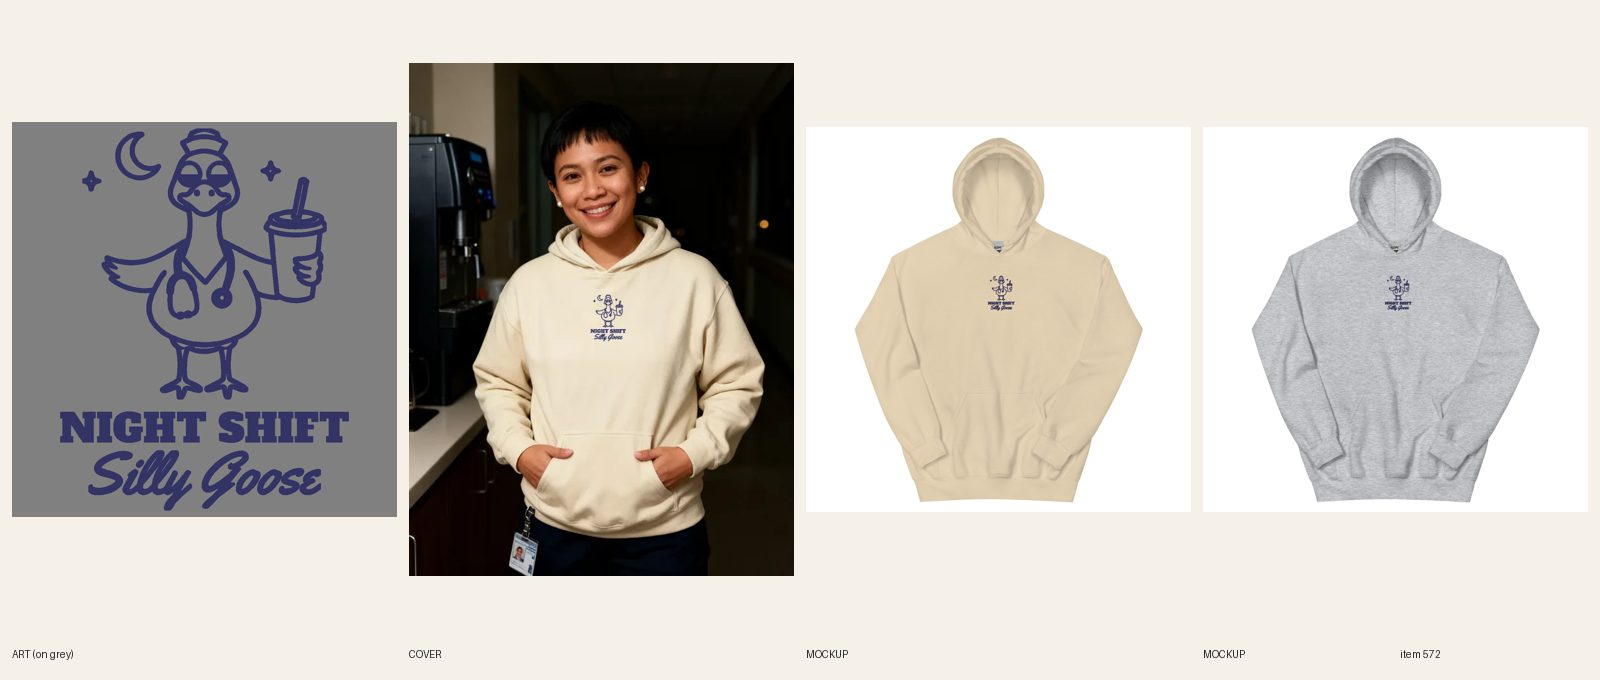
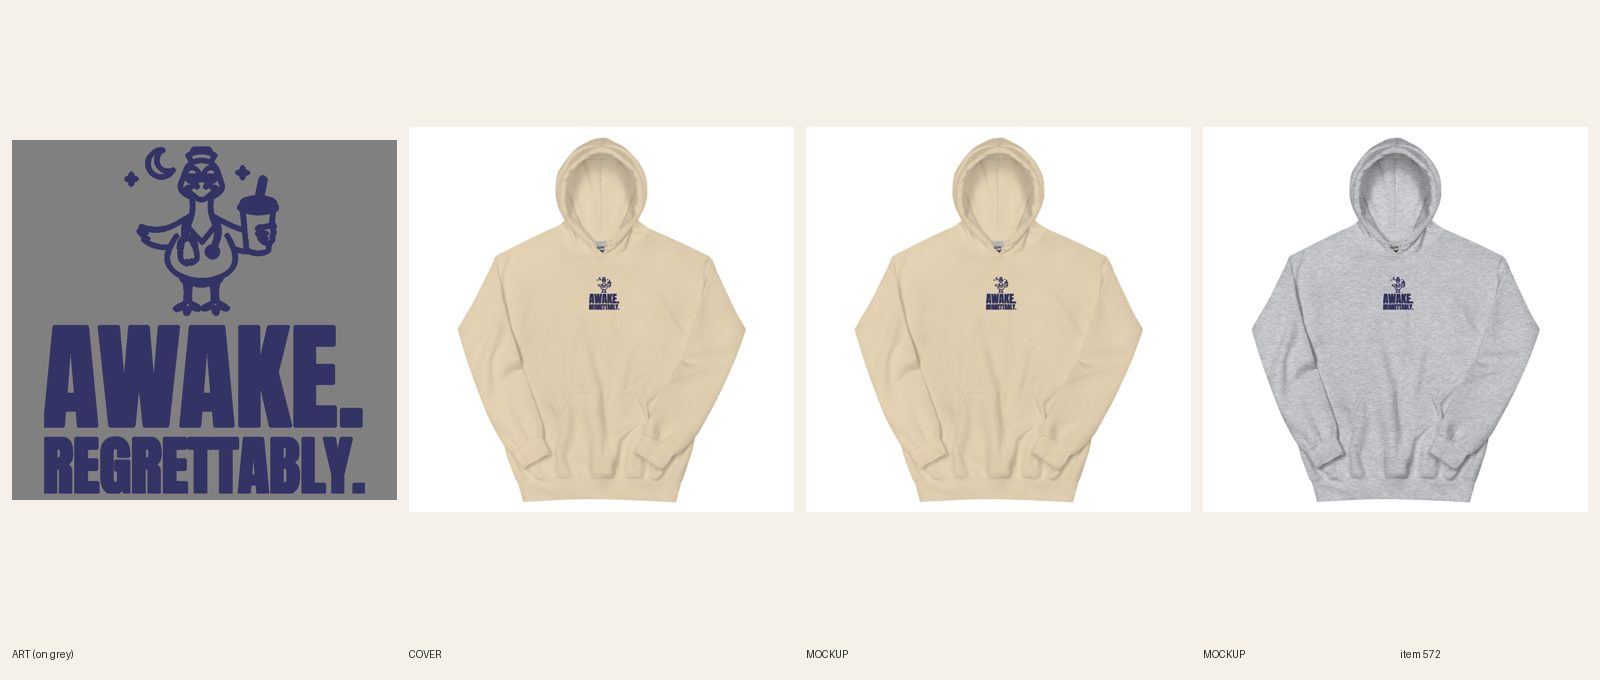
[C] review 572 (redo)
Claude-Session: https://claude.ai/code/session_01CCHcDj8LcJJ8qUPtKE3cvn

Changed region(s): [[0.0, 0.0926, 0.5, 0.8647], [0.8438, 0.4015, 0.9062, 0.4632], [0.5938, 0.4015, 0.6562, 0.4632]]

diff --git a/docs/pipeline/572-nurse-embroidered-hoodie-night-shift-silly-goose.md b/docs/pipeline/572-nurse-embroidered-hoodie-night-shift-silly-goose.md
@@ -1,4 +1,4 @@
-status: BUILDING [C] 2026-10-20 10:14
+status: REVIEW
 shopify: gid://shopify/Product/15364818239792
 lane: C
 type: twin
@@ -27,3 +27,4 @@ kd: 40
 - 2026-10-18 06:53 UTC builder [C]: Printful relink verified 12/12 on file 1088588687; REVIEW.
 - 2026-10-18 07:22 UTC director: approved from docs/review/572.jpg; ACTIVE + Online Store + Headless + Google & YouTube. Stitch sizes logged above minimum (0.327 in caps / 0.283 in lowercase); cover composite at true scale. audit --handle PASS (0 warn). LIVE.
 - 2026-10-18 17:22 UTC director: QUALITY RESET grade C (new line + type), REDO. The product stays ACTIVE (same handle, URL, title keyword). 1. Line (R3.12, quality-reset 'Lines'): "NIGHT SHIFT / Silly Goose": Noun + cutesy label; no joke. Script line thin even in stitch. Write 5 candidates, keep the one a stranger laughs at in 3 seconds without backstory; kill lines that only describe the picture; if none of the 5 is funny, PARK it. 2. Quality reset type bar (docs/backlog/quality-reset.md, 'The new bar'): headline at least 90% of the art width, heavy, colors pulled from the art; second line at least 45% of the headline's height, never a thin script on a dark or mid garment; use the lettering as a shape (arch, stacked lockup, words breaking into the art), not a plain bar above and a script line below; no font used on more than 1 in 6 of the last 30 designs. 3. Keep the art if it carries the new line, else one new illustration (R4/R5). New print means a new cover per R6.10, copy line one rewritten for the new joke (R8.3), and a fresh review sheet (R7.7). While quality-reset.md says PAUSED, only lane A builds, and only the samples step 2 names.
+- 2026-10-20 10:18 UTC builder [C]: REDO new line + type, ported from the twin source (title card 7i done). #492, the crewneck this hoodie twins, was redone by lane B (REVIEW, approved by the director at 07:55): AWAKE. / REGRETTABLY. (5 candidates there, compared with the cropped-hoodie bar), stitched caps big inside the 4 in square. Twins carry the design's line (R3.9), so this hoodie reuses lane B's redone embroidery file as is: file 1090206171 (1200 x 1121 px, navy thread #333366, goose line art at 62%, AWAKE. about 1.0 in and REGRETTABLY. about 0.6 in capitals, both well over the 0.3 in rule, R4.8), no new art, /bin/bash. Ink widths (builder 7h, from #492): headline AWAKE. 1000 px / punch REGRETTABLY. 1000 px (equal width, 100%). One thread colour (navy) on both Sand and Sport Grey (both light), so no light-file split is needed. 12/12 synced on the embroidery_chest_center placement (verified on the API), back logo kept. Sand + Sport Grey embroidery mockups (styles 1402/1403) replaced in place, read at phone size (REGRETTABLY. is small by nature at 4 in; AWAKE. reads clearly). Title set to "Women's Nurse – Embroidered Awake. Regrettably. Hoodie" (handle unchanged); copy, FAQ and SEO rewritten. Handle in retired-covers.json. Plain product shot. fal $0.

diff --git a/docs/intake-log.md b/docs/intake-log.md
@@ -30,6 +30,7 @@ RUNNING lane B since 2026-10-20 09:02 UTC
 2026-10-20 07:44 UTC — [B] Builder run: REDO round 3 of #455 Unisex Hanukkah Lost My Gelt crewneck (dreidel face marks painted out, Navy file 1090236634 + Sport Grey file 1090236680, FW 1650 TOP 0, 12/12 relinked, 2 fronts replaced in place) and #469 Women's Christmas embroidered crewneck (new line BOOKED / THROUGH JANUARY., headline 2197 / punch 2197 px, Sand file 1090237592 + Navy file 1090237605, 12/12 synced, title/SEO/copy/alts updated). Both REVIEW. #498 left for director (R3.14 note). fal $0.
 2026-10-20 08:00 UTC — [E] Builder run: redid #608 Women's Pickleball tee (line + type: POLITE SMILE. / PERSONAL VENDETTA., same serene-lady art, Bevan, dark-ink file on 5 light colors, 30/30 synced). REVIEW. fal $0.
 RUNNING lane C since 2026-10-20 07:00 UTC
+2026-10-20 10:18 UTC — [C] Builder run: redid #572 Women's Nurse embroidered hoodie (twin of #492: AWAKE. / REGRETTABLY. embroidery, navy thread file 1090206171, 12/12 synced on the chest placement, 2 fronts replaced in place, title + copy + SEO updated). REVIEW. fal $0.
 2026-10-20 10:14 UTC — [C] Builder run: redid #468 Women's Embroidered frog hoodie (new line + type: NOT ON FIRE. / THAT'S A WIN. stitched caps 0.39/0.36 in, Sand kelly-green file 1090293430 + Navy white file 1090293438, 12/12 relinked on the chest embroidery placement, 2 fronts replaced in place, title + copy + SEO updated). REVIEW. fal $0.
 2026-10-20 10:09 UTC — [C] Builder run: redid #553 Unisex Christian ghost hoodie (twin of #499: HOLY GHOST, / FRIENDLY EDITION. and the new friendly-ghost art, Navy + Black on file 1090291345, FW 1500 TOP 0, 12/12 relinked, 2 fronts replaced in place, title + copy + SEO updated). REVIEW. fal $0.
 2026-10-20 10:03 UTC — [C] Builder run: redid #346 Women's Christian Casserole Ministry hoodie (type only, faith insider joke kept: CASSEROLE Bowlby rose + MINISTRY Alfa green full width, old arched script erased, Sand file 1090289536 + Sport Grey file 1090289614, FW 1500 TOP 0, 12/12 relinked, 2 fronts replaced in place, copy updated). REVIEW. fal $0.
